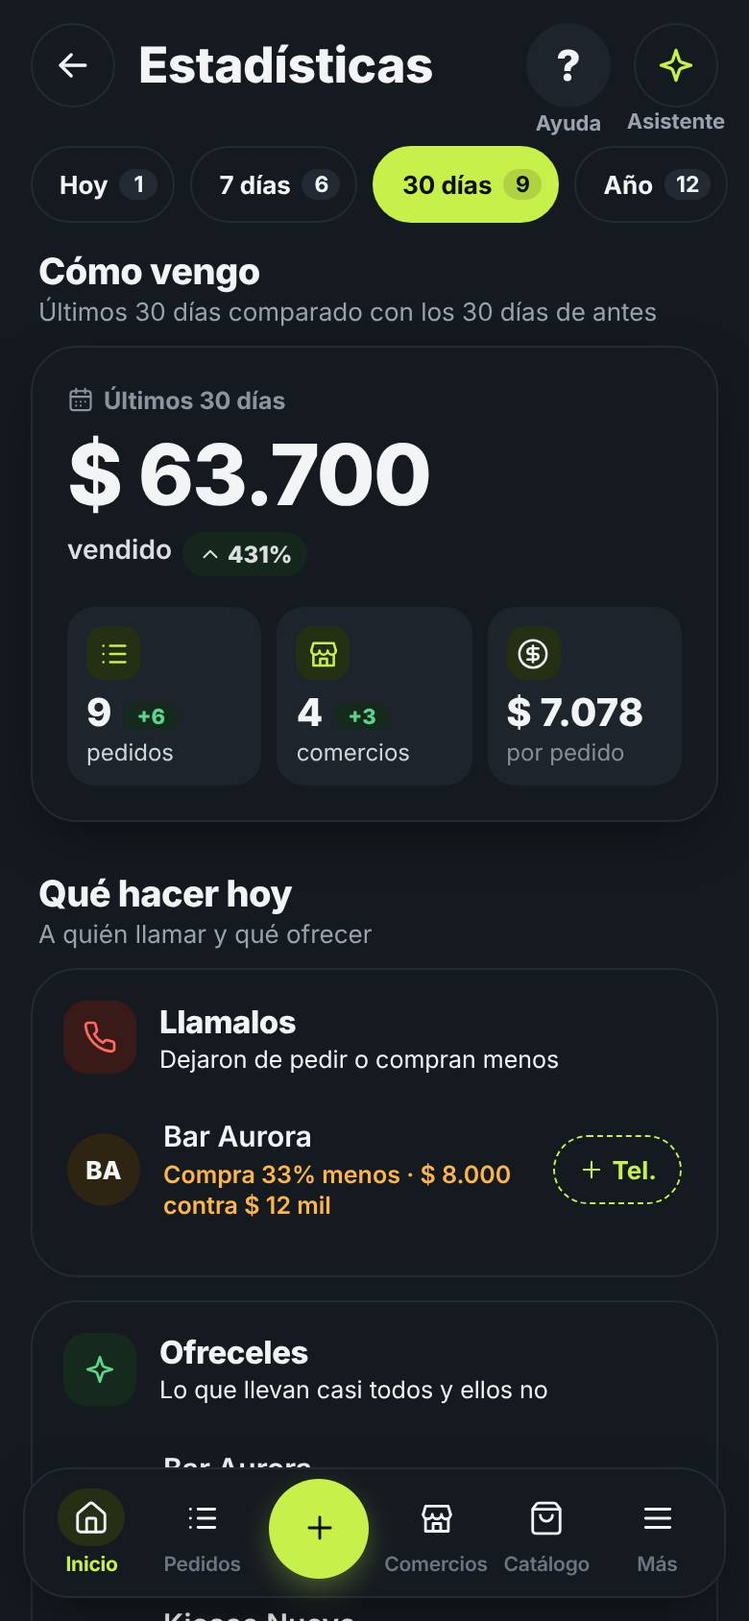
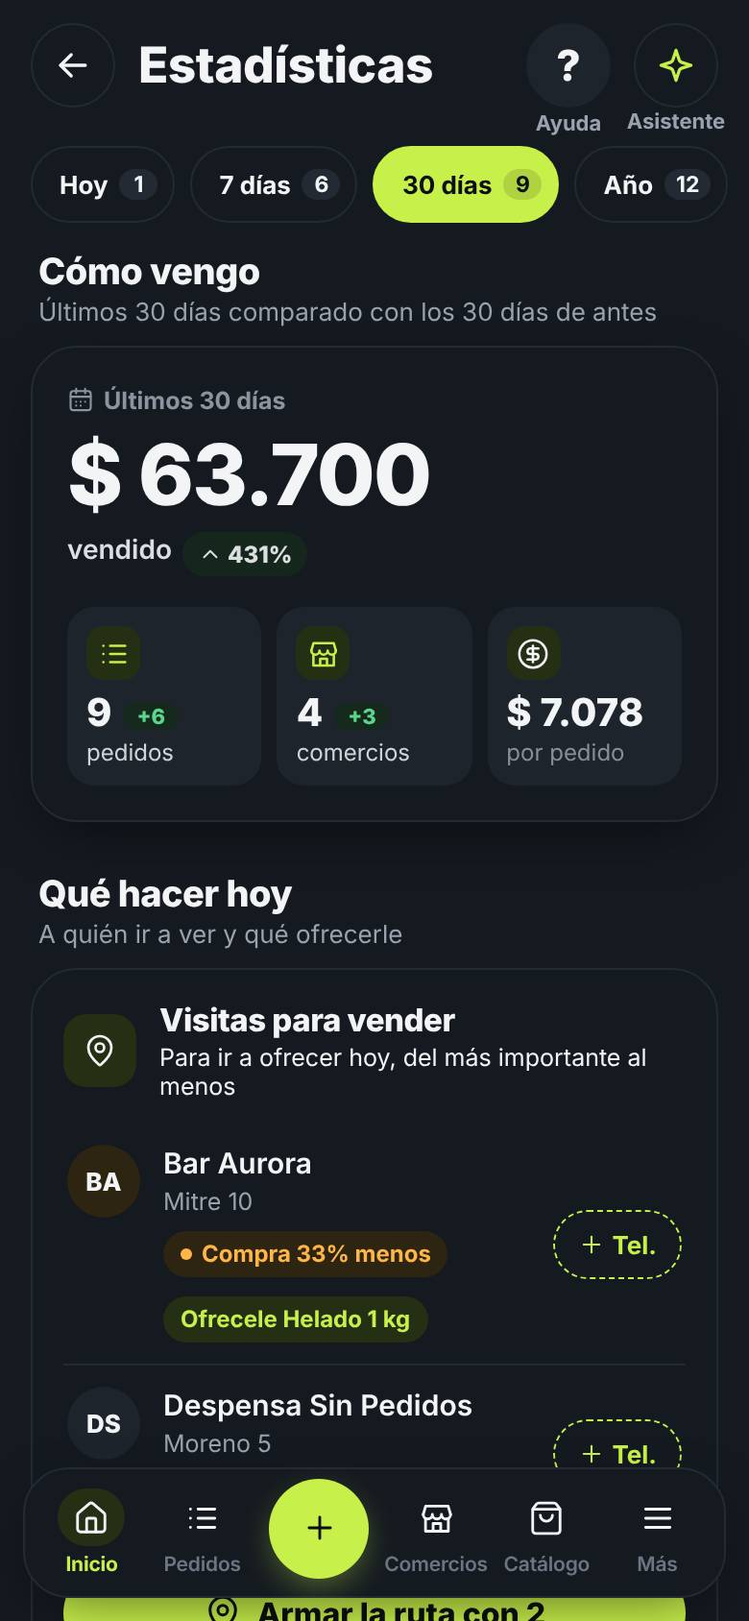
Estadísticas: Visitas para vender con «Armar la ruta con N»; caché v261
Una sola tarjeta en «Qué hacer hoy» reemplaza a Llamalos y Ofreceles:
comercios guardados para ir a ofrecer, con chips de por qué. El botón abre
Rutas con esos comercios elegidos (window.armarRutaConComercios).

Claude-Session: https://claude.ai/code/session_01VMQLWazUePEzjNUvQyVJFQ

diff --git a/estadisticas.js b/estadisticas.js
@@ -260,8 +260,9 @@
         return lista;
     }
 
-    // Lo de cada fila: tocar el nombre abre la ficha, el teléfono que falta se
-    // agrega ahí mismo y "+ Pedido" empieza un pedido para ese comercio.
+    // Lo de cada fila: tocar el nombre abre la ficha, el teléfono o la
+    // dirección que faltan se agregan ahí mismo y "+ Pedido" empieza un
+    // pedido para ese comercio.
     function conectarFilas(card) {
         const tocable = window.piezas?.tocable;
         card.querySelectorAll("[data-ficha]").forEach(fila => {
@@ -272,6 +273,8 @@
             if (tel) { evento.stopPropagation(); window.abrirDatosComercio(tel.dataset.agregarTel, "telefono", () => window.estadisticasVendeFrio.redibujar()); return; }
             const pedido = evento.target.closest("[data-pedido-para]");
             if (pedido) { evento.stopPropagation(); if (typeof irAPedidoRapido === "function") irAPedidoRapido(pedido.dataset.pedidoPara); return; }
+            const dir = evento.target.closest("[data-agregar-dir]");
+            if (dir) { evento.stopPropagation(); window.abrirDatosComercio?.(dir.dataset.agregarDir, "direccion", () => window.estadisticasVendeFrio.redibujar()); return; }
             const crear = evento.target.closest("[data-crear-comercio]");
             if (crear) { evento.stopPropagation(); crearComercio(crear.dataset.crearComercio); return; }
             if (evento.target.closest(".statsWhatsapp")) evento.stopPropagation();
@@ -333,44 +336,18 @@
     }
 
     // ---------- 2. Qué hacer hoy ----------
-    // Llamalos: los que dejaron de pedir (pedían seguido) y los que compran
-    // un 20% menos que en el período anterior.
-    function crearLlamar(completo) {
-        const atrasados = perfilesDe(completo).filter(perfil => perfil.atrasado && perfil.nombre !== "Sin comercio")
-            .sort((a, b) => (b.diasDesdeUltimo / b.promedioDias) - (a.diasDesdeUltimo / a.promedioDias));
-        const nombresAtrasados = new Set(atrasados.map(perfil => perfil.nombre));
-        const ahora = porComercio(pedidosDelPeriodo());
-        const antes = porComercio(pedidosDelAnterior());
-        const caen = Object.keys(antes)
-            .filter(nombre => nombre !== "Sin comercio" && !nombresAtrasados.has(nombre) && antes[nombre] > 0 && (ahora[nombre] || 0) < antes[nombre] * 0.8)
-            .map(nombre => ({ nombre, ahora: ahora[nombre] || 0, antes: antes[nombre] }))
-            .sort((a, b) => (a.ahora / a.antes) - (b.ahora / b.antes));
-        const card = tarjeta("telefono", "rojo", "Llamalos", "Dejaron de pedir o compran menos", "statsLlamar");
-        const filas = [
-            ...atrasados.map(perfil => `<div class="statsFila" data-ficha="${esc(perfil.nombre)}">
-                <span class="statsAvatar" data-tono="atrasado">${esc(iniciales(perfil.nombre))}</span>
-                <div class="statsFilaTexto"><strong>${esc(perfil.nombre)}</strong><small class="statsTextoRojo">No pide hace ${plural(perfil.diasDesdeUltimo, "día", "días")} · pedía ${cadaCuanto(perfil.promedioDias)}</small></div>
-                ${botonWhatsapp(perfil.nombre, saludo())}
-            </div>`),
-            ...caen.map(item => `<div class="statsFila" data-ficha="${esc(item.nombre)}">
-                <span class="statsAvatar" data-tono="semana">${esc(iniciales(item.nombre))}</span>
-                <div class="statsFilaTexto"><strong>${esc(item.nombre)}</strong><small class="statsTextoNaranja">Compra ${Math.round((1 - item.ahora / item.antes) * 100)}% menos · ${valorTexto(item.ahora)} contra ${valorTexto(item.antes)}</small></div>
-                ${botonWhatsapp(item.nombre, saludo())}
-            </div>`)
-        ];
-        if (!filas.length) {
-            card.insertAdjacentHTML("beforeend", `<div class="statsVacio statsTodoBien">${ico("check", 20)}<span>Nadie dejó de pedir ni compra menos.</span></div>`);
-            return card;
-        }
-        listaCorta(card, filas, 4);
-        conectarFilas(card);
-        return card;
-    }
+    // Visitas para vender (repaso 2026-11-02): una sola lista de comercios
+    // guardados para ir a ofrecer, del más importante al menos. Junta a los
+    // que dejaron de pedir, los que compran un 20% menos, a los que les toca
+    // hoy, lo que llevan casi todos y ellos no, y los que nunca compraron.
+    const DIAS_SEMANA = ["Domingo", "Lunes", "Martes", "Miércoles", "Jueves", "Viernes", "Sábado"];
+    const clave = nombre => String(nombre || "").trim().toLocaleLowerCase("es");
+    const sinTildes = texto => clave(texto).normalize("NFD").replace(/[\u0300-\u036f]/g, "");
 
-    // Ofreceles: un producto que llevan al menos 3 comercios (y un cuarto de
-    // los que compran) que este comercio nunca llevó. Uno por comercio.
-    function crearOfrecer(completo) {
-        const ofertas = recordar(completo, "ofrecer", () => {
+    // Un producto que llevan al menos 3 comercios (y un cuarto de los que
+    // compran) que este comercio nunca llevó. Uno por comercio.
+    function productosParaOfrecer(completo) {
+        return recordar(completo, "ofrecer", () => {
             const desde = Date.now() - 90 * DIA;
             const recientes = completo.filter(p => { const f = fechaPedido(p); return f && f.getTime() >= desde; });
             const activos = [...new Set(recientes.map(p => p.comercio).filter(nombre => nombre && nombre !== "Sin comercio"))];
@@ -387,24 +364,83 @@
                 .map(([producto, comercios]) => ({ producto, cuantos: activos.filter(c => comercios.has(c)).length }))
                 .filter(item => item.cuantos >= 3 && item.cuantos / Math.max(activos.length, 1) >= 0.25)
                 .sort((a, b) => b.cuantos - a.cuantos);
-            const lista = [];
+            const ofertas = new Map();
             activos.forEach(comercio => {
                 const elegido = populares.find(item => !lleva.get(comercio)?.has(item.producto));
-                if (elegido) lista.push({ comercio, ...elegido });
+                if (elegido) ofertas.set(clave(comercio), elegido.producto);
             });
-            return { lista: lista.sort((a, b) => b.cuantos - a.cuantos), activos: activos.length };
+            return ofertas;
         });
-        const card = tarjeta("chispa", "verde", "Ofreceles", "Lo que llevan casi todos y ellos no", "statsOfrecer");
-        if (!ofertas.lista.length) {
-            card.insertAdjacentHTML("beforeend", vacio("Cuando tengas más pedidos, acá vas a ver qué ofrecerle a cada comercio."));
+    }
+
+    function visitasParaVender(completo) {
+        const guardados = (typeof comerciosParaLeer === "function" ? comerciosParaLeer() : [])
+            .filter(comercio => comercio && comercio.nombre && comercio.archivado !== true);
+        const filas = new Map(guardados.map(comercio => [clave(comercio.nombre), { comercio, chips: [], peso: 0, tono: "" }]));
+        const fila = nombre => filas.get(clave(nombre));
+        perfilesDe(completo).forEach(perfil => {
+            const item = perfil.atrasado && fila(perfil.nombre);
+            if (!item) return;
+            item.chips.push(["falta", "No compra hace " + plural(perfil.diasDesdeUltimo, "día", "días")], ["", "Pedía " + cadaCuanto(perfil.promedioDias)]);
+            item.peso += 40 + Math.min(perfil.diasDesdeUltimo / Math.max(perfil.promedioDias, 1), 10);
+            item.tono = "atrasado";
+        });
+        const ahora = porComercio(pedidosDelPeriodo());
+        const antes = porComercio(pedidosDelAnterior());
+        Object.keys(antes).forEach(nombre => {
+            const item = fila(nombre);
+            if (!item || item.tono || !(antes[nombre] > 0) || (ahora[nombre] || 0) >= antes[nombre] * 0.8) return;
+            item.chips.push(["menos", "Compra " + Math.round((1 - (ahora[nombre] || 0) / antes[nombre]) * 100) + "% menos"]);
+            item.peso += 30 + (1 - (ahora[nombre] || 0) / antes[nombre]);
+            item.tono = "semana";
+        });
+        const hoy = DIAS_SEMANA[new Date().getDay()];
+        filas.forEach(item => {
+            if (sinTildes(item.comercio.diaVisita) !== sinTildes(hoy)) return;
+            item.chips.unshift(["hoy", "Le toca los " + hoy.toLocaleLowerCase("es")]);
+            item.peso += 25;
+        });
+        productosParaOfrecer(completo).forEach((producto, nombre) => {
+            const item = filas.get(nombre);
+            if (!item) return;
+            item.chips.push(["ofrece", "Ofrecele " + producto]);
+            item.peso += 10;
+        });
+        const conPedido = new Set(completo.map(pedido => clave(pedido.comercio)));
+        filas.forEach((item, nombre) => {
+            if (conPedido.has(nombre)) return;
+            item.chips.push(["nunca", "Nunca te compró"]);
+            item.peso += 5;
+        });
+        return [...filas.values()].filter(item => item.peso > 0).sort((a, b) => b.peso - a.peso);
+    }
+
+    function crearVisitas(completo) {
+        const lista = visitasParaVender(completo);
+        const card = tarjeta("ubicacion", "azul", "Visitas para vender", "Para ir a ofrecer hoy, del más importante al menos", "statsVisitasVender");
+        if (!lista.length) {
+            card.insertAdjacentHTML("beforeend", `<div class="statsVacio statsTodoBien">${ico("check", 20)}<span>Todos te compran como siempre.</span></div>`);
             return card;
         }
-        const filas = ofertas.lista.map(item => `<div class="statsFila" data-ficha="${esc(item.comercio)}">
-            <span class="statsAvatar">${esc(iniciales(item.comercio))}</span>
-            <div class="statsFilaTexto"><strong>${esc(item.comercio)}</strong><small>No lleva <b>${esc(item.producto)}</b> · lo llevan ${item.cuantos} de ${ofertas.activos}</small></div>
-            <button type="button" class="statsPildora" data-pedido-para="${esc(item.comercio)}" aria-label="Pedido para ${esc(item.comercio)}">${ico("mas", 14)} Pedido</button>
-        </div>`);
-        listaCorta(card, filas, 3);
+        const filas = lista.map(({ comercio, chips, tono }) => {
+            const nombre = comercio.nombre;
+            const pildoras = chips.slice(0, 2).map(([tipo, texto]) => `<span class="statsChipVisita"${tipo ? ` data-tipo="${tipo}"` : ""}>${tipo && tipo !== "ofrece" ? "<i></i>" : ""}${esc(texto)}</span>`).join("")
+                + (comercio.direccion ? "" : `<button type="button" class="statsChipVisita" data-tipo="agregar" data-agregar-dir="${esc(nombre)}">${ico("mas", 12)} Agregar dirección</button>`);
+            return `<div class="statsFila statsFilaVisita" data-ficha="${esc(nombre)}">
+                <span class="statsAvatar"${tono ? ` data-tono="${tono}"` : ""}>${esc(iniciales(nombre))}</span>
+                <div class="statsFilaTexto"><strong>${esc(nombre)}</strong>${comercio.direccion ? `<small>${esc(comercio.direccion)}</small>` : ""}<div class="statsChipsVisita">${pildoras}</div></div>
+                ${botonWhatsapp(nombre, saludo())}
+            </div>`;
+        });
+        listaCorta(card, filas, 4);
+        const armar = document.createElement("button");
+        armar.type = "button";
+        armar.className = "statsArmarRuta";
+        armar.innerHTML = `${ico("ubicacion", 20)} Armar la ruta con ${numero(lista.length)}`;
+        armar.addEventListener("click", () => {
+            if (typeof window.armarRutaConComercios === "function") window.armarRutaConComercios(lista.map(item => item.comercio.nombre));
+        });
+        card.appendChild(armar);
         conectarFilas(card);
         return card;
     }
@@ -706,9 +742,8 @@
                 });
                 return null;
             },
-            () => seccion("Qué hacer hoy", "A quién llamar y qué ofrecer"),
-            () => crearLlamar(completo),
-            () => crearOfrecer(completo),
+            () => seccion("Qué hacer hoy", "A quién ir a ver y qué ofrecerle"),
+            () => crearVisitas(completo),
             () => { otras.forEach(card => destino.appendChild(card)); return null; },
             () => seccion("Qué se mueve", "Qué sube, qué baja y cuándo se vende"),
             () => crearRanking(),

diff --git a/pruebas/estadisticas.prueba.js b/pruebas/estadisticas.prueba.js
@@ -1,6 +1,6 @@
 // VendeFrío - Estadísticas para estudiar el mercado (repaso de diseño,
 // 2026-11-01): períodos corridos con su cantidad, "Cómo vengo", "Qué hacer
-// hoy" (Llamalos y Ofreceles), "Qué se mueve" (quién deja más plata y qué
+// hoy" (Visitas para vender y armar la ruta con ellos), "Qué se mueve" (quién deja más plata y qué
 // día se vende más) y "Para crecer" (tus clientes, comercios sin guardar).
 const { test, expect, capturar } = require("./ayudas");
 
@@ -69,26 +69,31 @@ test("estadísticas: cómo vengo, qué hacer hoy, qué se mueve y para crecer", 
     await expect(resumen).toContainText("Últimos 30 días");
     await expect(resumen).toContainText("vendido");
     await expect(resumen.locator(".statsNumeros > div").first()).toContainText("9");
-    for (const titulo of ["Llamalos", "Ofreceles", "Quién te deja más plata", "Qué día se vende más", "Tus clientes"]) {
+    for (const titulo of ["Visitas para vender", "Quién te deja más plata", "Qué día se vende más", "Tus clientes"]) {
         const tarjeta = pantalla.locator(".statsTarjeta", { has: page.getByRole("heading", { name: titulo }) });
         await expect(tarjeta.locator(".statsCabeza .ajIcono svg")).toBeVisible();
     }
     // Lo que se sacó.
-    for (const titulo of ["Esta semana", "Pedido habitual", "Mes por mes", "Pedidos por día", "Se están enfriando"]) {
+    for (const titulo of ["Esta semana", "Pedido habitual", "Mes por mes", "Pedidos por día", "Se están enfriando", "Llamalos", "Ofreceles"]) {
         await expect(pantalla.getByRole("heading", { name: titulo })).toHaveCount(0);
     }
     await capturar(page, "estadisticas-01-como-vengo");
 
-    // Qué hacer hoy: Bar Aurora compra menos que antes (sin teléfono: en vez
-    // de WhatsApp, "+ Tel."); a Bar Aurora le ofrece Helado 1 kg.
-    const llamar = pantalla.locator(".statsLlamar");
-    await expect(llamar.locator(".statsFila", { hasText: "Bar Aurora" })).toBeVisible();
-    await expect(llamar.locator(".statsFila", { hasText: "Bar Aurora" }).locator(".statsAgregarTel")).toBeVisible();
-    const ofrecer = pantalla.locator(".statsOfrecer");
-    await expect(ofrecer.locator(".statsFila", { hasText: "Bar Aurora" })).toContainText("No lleva Helado 1 kg");
-    await llamar.evaluate(caja => window.scrollTo(0, caja.getBoundingClientRect().top + window.scrollY - 140));
+    // Qué hacer hoy: Visitas para vender. Bar Aurora compra menos que antes
+    // (sin teléfono: en vez de WhatsApp, "+ Tel.") y le ofrece Helado 1 kg;
+    // Despensa Sin Pedidos nunca compró. Los no guardados no van.
+    const visitas = pantalla.locator(".statsVisitasVender");
+    const aurora = visitas.locator(".statsFila", { hasText: "Bar Aurora" });
+    await expect(aurora).toContainText("Mitre 10");
+    await expect(aurora.locator('[data-tipo="menos"]')).toHaveText("Compra 33% menos");
+    await expect(aurora.locator('[data-tipo="ofrece"]')).toHaveText("Ofrecele Helado 1 kg");
+    await expect(aurora.locator(".statsAgregarTel")).toBeVisible();
+    await expect(visitas.locator(".statsFila", { hasText: "Despensa Sin Pedidos" }).locator('[data-tipo="nunca"]')).toHaveText("Nunca te compró");
+    await expect(visitas).not.toContainText("Kiosco Nuevo");
+    const armar = visitas.getByRole("button", { name: /^Armar la ruta con \d+$/ });
+    await expect(armar).toBeVisible();
+    await visitas.evaluate(caja => window.scrollTo(0, caja.getBoundingClientRect().top + window.scrollY - 140));
     await capturar(page, "estadisticas-02-que-hacer-hoy");
-
     // Qué se mueve: por plata, Kiosco Luna primero; pestañas de productos y marcas.
     const ranking = pantalla.locator(".statsRanking");
     await expect(ranking.locator(".statsListaRanking:visible .statsFilaRanking").first()).toContainText("Kiosco Luna");
@@ -114,6 +119,19 @@ test("estadísticas: cómo vengo, qué hacer hoy, qué se mueve y para crecer", 
     await expect(hoja.locator("#modalNombre")).toHaveValue("Kiosco Nuevo");
     await page.keyboard.press("Escape");
     await expect(hoja).toBeHidden();
+
+    // "Armar la ruta con N" abre Rutas con esos comercios elegidos (sin
+    // ubicaciones, avisa que faltan) y atrás vuelve a Estadísticas.
+    const cuantos = Number((await armar.textContent()).match(/\d+/)[0]);
+    await armar.click();
+    await expect(page.locator("#pantallaRutas")).toBeVisible();
+    const elegidos = await page.evaluate(() => [...comerciosSeleccionadosRuta]);
+    expect(elegidos).toHaveLength(cuantos);
+    expect(elegidos).toEqual(expect.arrayContaining(["Bar Aurora", "Despensa Sin Pedidos"]));
+    await expect(page.locator("#modalAviso")).toContainText("Faltan ubicaciones");
+    await page.locator("#modalAviso").getByRole("button", { name: "Entendido" }).click();
+    await expect(page.locator("#modalAviso")).toBeHidden();
+    await page.evaluate(() => window.abrirEstadisticas());
 
     // Con "Hoy" queda solo el pedido de hoy.
     await pantalla.locator('[data-periodo="hoy"]').click();

diff --git a/tema.css b/tema.css
@@ -2940,7 +2940,7 @@ html[data-tema="oscuro"] .modalBotones .botonAsistenteFicha{color:var(--acento);
 
 /* ---- Estadísticas para estudiar el mercado (repaso de diseño, 2026-11-01):
    períodos como los filtros de Pedidos, cuatro partes con su título,
-   Llamalos, Ofreceles, quién deja más plata, qué día se vende más, tus
+   visitas para vender, quién deja más plata, qué día se vende más, tus
    clientes y el mapa de ventas adentro. */
 html .selectorPeriodoEstadisticas.filaPeriodosStats{display:flex;gap:8px;overflow-x:auto;margin:2px -16px 6px;padding:2px 16px 6px;border-radius:0;background:transparent;scrollbar-width:none;}
 html .selectorPeriodoEstadisticas.filaPeriodosStats::-webkit-scrollbar{display:none;}
@@ -2954,7 +2954,6 @@ html[data-tema="oscuro"] .selectorPeriodoEstadisticas.filaPeriodosStats .filtroE
 .statsTextoRojo{color:var(--peligro) !important;font-weight:600;}
 .statsTextoNaranja{color:var(--pendiente) !important;font-weight:600;}
 .statsTextoVerde{color:var(--visitado) !important;font-weight:600;}
-.statsFilaTexto > small b{font-weight:800;color:var(--texto);font-size:inherit;}
 .statsWhatsapp{flex-shrink:0;display:grid;place-items:center;width:40px;height:40px;border-radius:50%;background:var(--visitado-bg);color:var(--visitado);}
 .statsAgregarTel,.statsPildora{flex-shrink:0;display:inline-flex;align-items:center;gap:4px;min-height:36px;padding:0 12px;border-radius:var(--radio-pildora);font-size:13px;font-weight:700;cursor:pointer;}
 .statsAgregarTel{border:1.5px dashed var(--acento);background:transparent;color:var(--acento-oscuro);}
@@ -3010,6 +3009,26 @@ html[data-tema="oscuro"] .statsResumen .statsCambio[data-tono="baja"]{background
 html .selectorPeriodoEstadisticas.filaPeriodosStats .filtroEtapa{flex:0 0 auto;background:var(--superficie);color:var(--texto);border:1px solid var(--borde);}
 html .selectorPeriodoEstadisticas.filaPeriodosStats .filtroEtapa.activo{background:var(--acento);color:var(--acento-txt);border-color:var(--acento);box-shadow:none;}
 .statsLista > [hidden]{display:none !important;}
+/* Visitas para vender (2026-11-02): chips de por qué ir y "Armar la ruta". */
+.statsFilaVisita{align-items:flex-start;}
+.statsFilaVisita .statsWhatsapp,.statsFilaVisita .statsAgregarTel{align-self:center;}
+.statsChipsVisita{display:flex;flex-wrap:wrap;gap:5px;margin-top:4px;}
+.statsChipVisita{display:inline-flex;align-items:center;gap:5px;min-height:24px;padding:2px 9px;border:0;border-radius:var(--radio-pildora);font-size:12px;font-weight:700;line-height:1.2;background:var(--superficie-2);color:var(--texto-sec);}
+.statsChipVisita i{width:6px;height:6px;border-radius:50%;background:currentColor;flex-shrink:0;}
+.statsChipVisita[data-tipo="hoy"]{background:var(--visitado-bg);color:var(--visitado);}
+.statsChipVisita[data-tipo="falta"]{background:var(--peligro-bg);color:var(--peligro);}
+.statsChipVisita[data-tipo="menos"]{background:var(--pendiente-bg);color:var(--pendiente);}
+.statsChipVisita[data-tipo="ofrece"]{background:var(--acento-bg);color:var(--acento-oscuro);}
+.statsChipVisita[data-tipo="nunca"]{background:color-mix(in srgb,#8b5cf6 15%,transparent);color:#7c3aed;}
+.statsChipVisita[data-tipo="agregar"]{background:transparent;border:1.5px dashed var(--acento);color:var(--acento-oscuro);cursor:pointer;}
+html[data-tema="oscuro"] .statsChipVisita{color:var(--texto-sec) !important;}
+html[data-tema="oscuro"] .statsChipVisita[data-tipo="hoy"]{color:var(--visitado) !important;}
+html[data-tema="oscuro"] .statsChipVisita[data-tipo="falta"]{color:var(--peligro) !important;}
+html[data-tema="oscuro"] .statsChipVisita[data-tipo="menos"]{color:var(--pendiente) !important;}
+html[data-tema="oscuro"] .statsChipVisita[data-tipo="ofrece"],html[data-tema="oscuro"] .statsChipVisita[data-tipo="agregar"]{color:var(--acento) !important;}
+html[data-tema="oscuro"] .statsChipVisita[data-tipo="nunca"]{color:#a78bfa !important;}
+.statsArmarRuta{display:flex;align-items:center;justify-content:center;gap:8px;width:100%;min-height:50px;margin-top:12px;border:0;border-radius:var(--radio-pildora);background:var(--acento);color:var(--acento-txt);font-size:16px;font-weight:800;cursor:pointer;}
+html[data-tema="oscuro"] .statsArmarRuta{color:var(--acento-txt) !important;}
 .statsMiniMapa{isolation:isolate;z-index:0;}
 html[data-tema="oscuro"] .statsFilaTexto > small.statsTextoRojo{color:var(--peligro) !important;}
 html[data-tema="oscuro"] .statsFilaTexto > small.statsTextoNaranja{color:var(--pendiente) !important;}

diff --git a/pruebas/dueno.prueba.js b/pruebas/dueno.prueba.js
@@ -1,5 +1,5 @@
 // VendeFrío - Ideas para la 1.0, tanda 5 "Para el dueño" (T79 a T83).
-// 1. Estadísticas contra el período anterior, "Llamalos" (antes "Se están
+// 1. Estadísticas contra el período anterior, "Visitas para vender" (antes "Se están
 //    enfriando") y el mapa de ventas dentro de Estadísticas (modo personal).
 // 2. Registro de cambios, metas del mes y resumen de la noche (nube).
 const { test, expect, capturar } = require("./ayudas");
@@ -45,10 +45,11 @@ test.describe("personal", () => {
         await expect(resumen.locator(".statsNumeros > div").first().locator(".statsDelta")).toHaveText("+1");
         await expect(resumen.locator(".statsVendido .statsCambio")).toBeVisible();
 
-        // Llamalos: Despensa Mary pedía cada semana y dejó de pedir.
-        const llamar = pantalla.locator(".statsLlamar");
-        await expect(llamar).toContainText("Despensa Mary");
-        await expect(llamar).toContainText("No pide hace 16 días · pedía cada semana");
+        // Visitas para vender: Despensa Mary pedía cada semana y dejó de pedir.
+        const llamar = pantalla.locator(".statsVisitasVender");
+        const mary = llamar.locator(".statsFila", { hasText: "Despensa Mary" });
+        await expect(mary.locator('[data-tipo="falta"]')).toHaveText("No compra hace 16 días");
+        await expect(mary).toContainText("Pedía cada semana");
         await expect(llamar.getByRole("link", { name: "WhatsApp a Despensa Mary" })).toHaveAttribute("href", /^https:\/\/wa\.me\/5491144442222\?text=/);
         await page.evaluate(() => window.scrollTo(0, 0));
         await capturar(page, "dueno-01-estadisticas");

diff --git a/rutas.js b/rutas.js
@@ -2957,3 +2957,17 @@ document.addEventListener("click", event => {
         abrirGoogleMaps();
     }
 });
+
+// Estadísticas > "Visitas para vender" (2026-11-02): abre Rutas con esos
+// comercios elegidos y arma el orden más corto desde donde estás.
+window.armarRutaConComercios = function (nombres) {
+    const lista = (Array.isArray(nombres) ? nombres : []).filter(Boolean);
+    if (!lista.length) return;
+    seleccionRutaInicializada = true;
+    comerciosSeleccionadosRuta = new Set(lista);
+    rutaOrdenada = [];
+    distanciasRuta = [];
+    if (typeof mostrarPantalla === "function") mostrarPantalla("rutas");
+    else inicializarSeleccionRuta();
+    optimizarRuta();
+};

diff --git a/pruebas/bienvenida.prueba.js b/pruebas/bienvenida.prueba.js
@@ -61,7 +61,7 @@ test("bienvenida: probar con datos de ejemplo y empezar de cero", async ({ page 
 
     // Las estadísticas ya muestran algo.
     await page.evaluate(() => window.abrirEstadisticas());
-    await expect(page.locator(".statsLlamar")).toContainText("Despensa Mary");
+    await expect(page.locator(".statsVisitasVender")).toContainText("Despensa Mary");
     await page.locator(".bottom-nav").getByRole("button", { name: "Inicio" }).click();
 
     // Algo propio queda al empezar de cero.

diff --git a/sw.js b/sw.js
@@ -1,7 +1,7 @@
 // =====================================================
 // VendeFrío - Service Worker (v164 - Estilo nuevo)
 // =====================================================
-const CACHE_NAME = "vendefrio-v260";
+const CACHE_NAME = "vendefrio-v261";
 const ARCHIVOS = [
   "./",
   "./index.html",

diff --git a/PROJECT_STATE.md b/PROJECT_STATE.md
@@ -1255,3 +1255,4 @@ Una línea por sesión: fecha, quién trabajó, qué cambió, qué quedó pendie
 - 2026-11-01 — Claude Code: el historial son los Terminados (pedido del dueño desde el hilo de Historial). «Ver sus pedidos» y los números de un comercio abren Pedidos > Terminados con una pastilla del comercio al lado de la lupa (X vuelve a todos; los períodos cuentan solo ese comercio); sin la caja «Mostrando solamente…». Sin cuenta también: «Pedidos» abre la lista con solo «Terminados» (la ficha deja eliminar con «Deshacer»); la pantalla Historial de antes ya no se abre y salió de Más > Herramientas. La fecha de cada día va en una sola línea. Caché v257.
 - 2026-11-01 — Claude Code: repaso de diseño de Nuevo pedido (aprobado por el dueño con imágenes). Tarjeta «Elegí un comercio» que abre la hoja `elegirComercio.js` (lupa, Para hoy = día de visita o ruta de hoy, Todos, Cerca = 1 km por GPS; el campo `#cliente` queda encima, invisible, y sigue mandando). Tarjeta del comercio como la ficha (dirección, teléfono, horario con «+ Agregar …»); si el nombre no está guardado avisa «Este comercio no existe» y lo crea (`datosComercioVendeFrio.nuevo({ nombre })`). Precio y lista «Para siempre»: `comercio.preciosPropios` por id de producto (`precioDeLista` lo usa primero) y `listaPrecios` del comercio. Usa la lupa de Pedidos (`piezas.lupa(input).poner(fila)`) en la fila de marcas y en la hoja; marcas con los botones de Catálogo; nota en una línea; el ⋯ pasó al pie al lado de Guardar y abre `piezas.menu` con íconos de colores (`color` en cada ítem). Prueba nueva `nuevoPedidoRepaso.prueba.js`. Caché v258.
 - 2026-11-02 — Claude Code: repaso de diseño de Estadísticas (aprobado por el dueño con imágenes 2 y 3: «para estudiar el mercado y vender más»). `estadisticas.js` rehecha en cuatro partes: «Cómo vengo» (lo vendido contra el período anterior del mismo largo), «Qué hacer hoy» (Llamalos: dejaron de pedir o compran 20% menos, con WhatsApp o «+ Tel.»; Ofreceles: el producto que llevan casi todos y ese comercio no, con «+ Pedido»), «Qué se mueve» (quién deja más plata con Comercios, Productos, Marcas y Zonas y cuánto sube o baja; qué día se vende más) y «Para crecer» (nuevos, perdidos, pedidos de comercios sin guardar con «Crear», guardados que nunca compraron y el mapa de ventas adentro, con «Ver grande»). Períodos corridos con su cantidad: Hoy, 7 días, 30 días y Año. Sin precios o sin permiso para ver la plata, todo se mide en unidades. Se sacaron «Esta semana», «Se están enfriando», «Pedido habitual», «Mes por mes» y el gráfico por día. Metas vacías en un renglón y «Visitas sin pedido» solo si hay. Sin casita en el encabezado (`volver.js`). «Mapa de ventas» sale de Más (`dueno.js`). Pruebas ajustadas (estadisticas, dueno, tocables, mejoras, bienvenida, simple, lista, alineados). Caché v259.
+- 2026-11-02 — Claude Code: Estadísticas, «Visitas para vender» (aprobado por el dueño con la imagen 4): en «Qué hacer hoy» una sola tarjeta reemplaza a Llamalos y Ofreceles, con los comercios guardados para ir a ofrecer, del más importante al menos y con chips de por qué (no compra hace N días, compra X% menos, le toca hoy, ofrecele…, nunca te compró, «+ Agregar dirección»). «Armar la ruta con N» abre Rutas con esos comercios elegidos y arma el orden (`window.armarRutaConComercios` en `rutas.js`). También se borró el código viejo de Estadísticas que nadie usaba. Pruebas: estadisticas, dueno, bienvenida, notasCambios. Caché v261.
